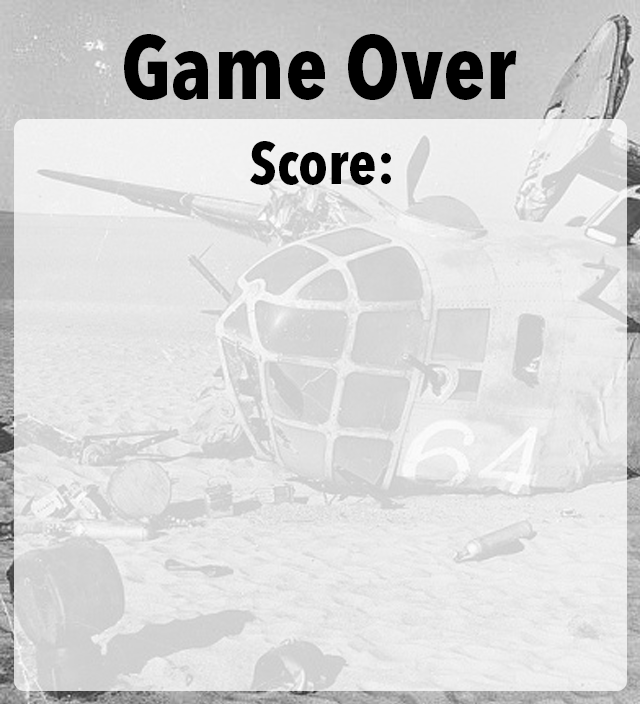
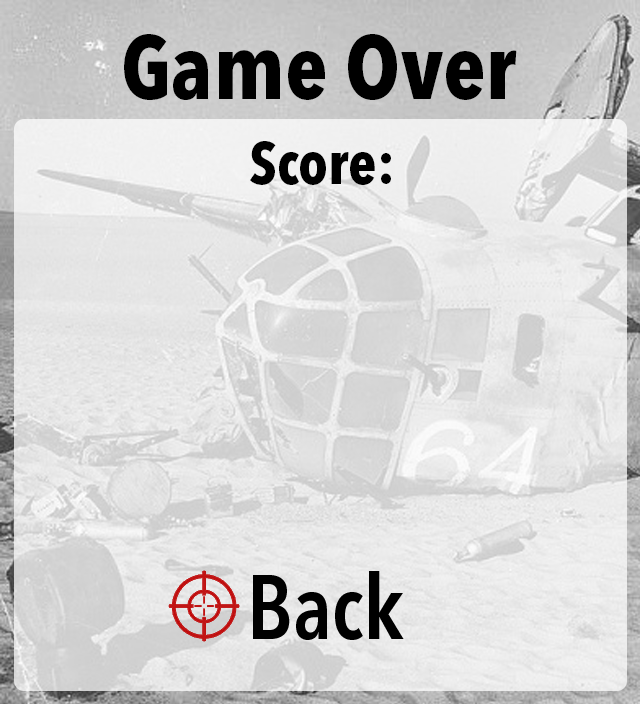
Game over screen working and showing player score

Changed region(s): [[0.25, 0.8125, 0.625, 0.9062]]

diff --git a/menu_screen.py b/menu_screen.py
@@ -1,6 +1,7 @@
 import pygame
 from game_object import Game_Object
 from game import Game
+import math
 
 
 class Menu_Screen(Game_Object):
@@ -10,8 +11,8 @@ class Menu_Screen(Game_Object):
         self.__selection = Selection(self.screen)
         self.__instruction_screen = Instruction_Screen(self.screen)
         self.__game_screen = Game(self.screen)
+        self.__game_over_screen = Game_Over_Screen(self.screen)
         self.width, self.height = self.sprite.get_size()
-        self.rectBox()
 
     @property
     def selection(self):
@@ -37,6 +38,14 @@ class Menu_Screen(Game_Object):
     def game_screen(self, value):
         self.__game_screen = value
 
+    @property
+    def game_over_screen(self):
+        return self.__game_over_screen
+
+    @game_over_screen.setter
+    def game_over_screen(self, value):
+        self.__game_over_screen = value
+
     def render(self):
         # Clean screen
         self.screen.fill((0, 0, 0))
@@ -60,11 +69,15 @@ class Menu_Screen(Game_Object):
                     if event.key == pygame.K_RETURN:
                         if self.selection.state == self.selection.START:
                             # Start the game
-                            in_menu = self.game_screen.loop()
+                            in_menu, score = self.game_screen.loop()
+                            # Game Over
+                            if in_menu:
+                                self.game_over_screen.render(score)
+                                in_menu = self.game_over_screen.loop()
                         elif self.selection.state == self.selection.INSTRUCTION:
                             # Load the instruction Screen
                             self.instruction_screen.render()
-                            self.instruction_screen.loop()
+                            in_menu = self.instruction_screen.loop()
                         elif self.selection.state == self.selection.EXIT:
                             # Exit game
                             in_menu = False
@@ -73,13 +86,11 @@ class Menu_Screen(Game_Object):
                 if event.type == pygame.QUIT:
                     in_menu = False
 
-
 class Instruction_Screen(Game_Object):
     def __init__(self, screen):
         Game_Object.__init__(self, 'instruction_screen', screen)
         self.sprite = pygame.image.load("imgs/Instructions.png").convert()
         self.width, self.height = self.sprite.get_size()
-        self.rectBox()
 
     def render(self):
         # Clean screen
@@ -91,11 +102,52 @@ class Instruction_Screen(Game_Object):
 
     def loop(self):
         in_instruction = True
+        window_open = True
         while in_instruction:
             for event in pygame.event.get():
                 if event.type == pygame.KEYUP:
                     if event.key == pygame.K_RETURN:
                         in_instruction = False
+                # CLOSE WINDOW
+                if event.type == pygame.QUIT:
+                    window_open = False
+                    in_instruction = False
+        return window_open
+
+
+class Game_Over_Screen(Game_Object):
+    def __init__(self, screen):
+        Game_Object.__init__(self, 'game_over_screen', screen)
+        self.sprite = pygame.image.load("imgs/Game_Over.png").convert()
+        self.width, self.height = self.sprite.get_size()
+        self.__font = pygame.font.SysFont("Arial Black", 60)
+
+    def render(self, score):
+        # Clean screen
+        self.screen.fill((0, 0, 0))
+        # Draw background
+        self.screen.blit(self.sprite, self.pos())
+        # Draw Score
+        label = self.__font.render(str(score), 1, (0, 0, 0))
+        self.screen.blit(label, (math.ceil(self.get_screen_size()[0] / 2) - math.ceil(label.get_size()[0] / 2),
+                                 math.ceil(self.get_screen_size()[1] / 2) - 100))
+        # Update screen
+        pygame.display.flip()
+
+    def loop(self):
+        in_game_over = True
+        window_open = True
+        while in_game_over:
+            for event in pygame.event.get():
+                if event.type == pygame.KEYUP:
+                    if event.key == pygame.K_RETURN:
+                        in_game_over = False
+                # CLOSE WINDOW
+                if event.type == pygame.QUIT:
+                    window_open = False
+                    in_game_over = False
+        return window_open
+
 
 class Selection(Game_Object):
     def __init__(self, screen):
@@ -107,7 +159,6 @@ class Selection(Game_Object):
         self.__state = self.START
         self.x, self.y = self.get_state_pos(self.state)
         self.width, self.height = self.sprite.get_size()
-        self.rectBox()
 
     # Setters and getters
     @property

diff --git a/game_object.py b/game_object.py
@@ -1,8 +1,8 @@
-from pygame import display, Rect
+from pygame import display
 
-class Game_Object(Rect):
+
+class Game_Object:
     def __init__(self, name, screen):
-        Rect.__init__(self,(0,0),(0,0))
         self.__name = name
         self.__screen = screen
         self.__sprite = None
@@ -78,13 +78,6 @@ class Game_Object(Rect):
     def get_screen_size(self):
         display_info = display.Info()
         return display_info.current_w, display_info.current_h
-
-    def rectBox(self):
-        self.rect = self.sprite.get_rect()
-        self.image_w, self.image_h = self.sprite.get_size()
-        self.rect.move(self.x, self.y)
-        self.rect.topleft = (self.x, self.y)
-        self.rect.bottomright = (self.x + self.image_w, self.y + self.image_h)
 
     def __str__(self):
         return self.name

diff --git a/player.py b/player.py
@@ -23,14 +23,12 @@ class Player(Game_Object):
 
     @x.setter
     def x(self,value):
-        if value > self.get_screen_size()[0] - self.width:
-            self.__x = self.get_screen_size()[0] - self.width
-        elif value < 0:
-            self.__x = 0
+        if value > self.get_screen_size()[0] - math.ceil(self.width / 2):
+            self.__x = self.get_screen_size()[0] - math.ceil(self.width / 2)
+        elif value < -math.ceil(self.width / 2):
+            self.__x = -math.ceil(self.width / 2)
         else:
             self.__x = value
-
-
 
     @property
     def speed(self):

diff --git a/shoot.py b/shoot.py
@@ -1,7 +1,6 @@
 import pygame
 from game_object import Game_Object
 
-
 def detectCollision(obj1, obj2):
     if (
                         obj1.x + obj1.width >= obj2.x >= obj1.x and obj1.y + obj1.height >= obj2.y >= obj1.y or obj2.x + obj2.width >= obj1.x >= obj2.x and obj2.y + obj2.height >= obj1.y >= obj2.y):
@@ -27,7 +26,6 @@ class Shoot(Game_Object):
         self.y = 0
         self.__direction = -1
         self.__speed = 2
-        self.rect = pygame.Rect(self.pos(), self.sprite.get_size())
 
     @property
     def direction(self):

diff --git a/game.py b/game.py
@@ -190,7 +190,7 @@ class Game(Game_Object):
 
                 # CLOSE WINDOW
                 if event.type == pygame.QUIT:
-                    return False  # Window closed
+                    return False, self.player.score  # Window closed
 
         # Window not closed
-        return True
+        return True, self.player.score

diff --git a/island.py b/island.py
@@ -12,7 +12,6 @@ class Island(Game_Object):
         self.__island_interval = 1000
         self.x = randint(0, self.get_screen_size()[0] - self.width)
         self.y = -self.height
-        self.rect = pygame.Rect(self.pos(), self.sprite.get_size())
 
     @property
     def direction(self):

diff --git a/enemy.py b/enemy.py
@@ -14,7 +14,6 @@ class Enemy(Game_Object):
         self.__shoot_interval = 180
         self.x = randint(0, self.get_screen_size()[0] - self.width)
         self.y = -self.height
-        self.rect = pygame.Rect(self.pos(), self.sprite.get_size())
 
     @property
     def speed(self):
